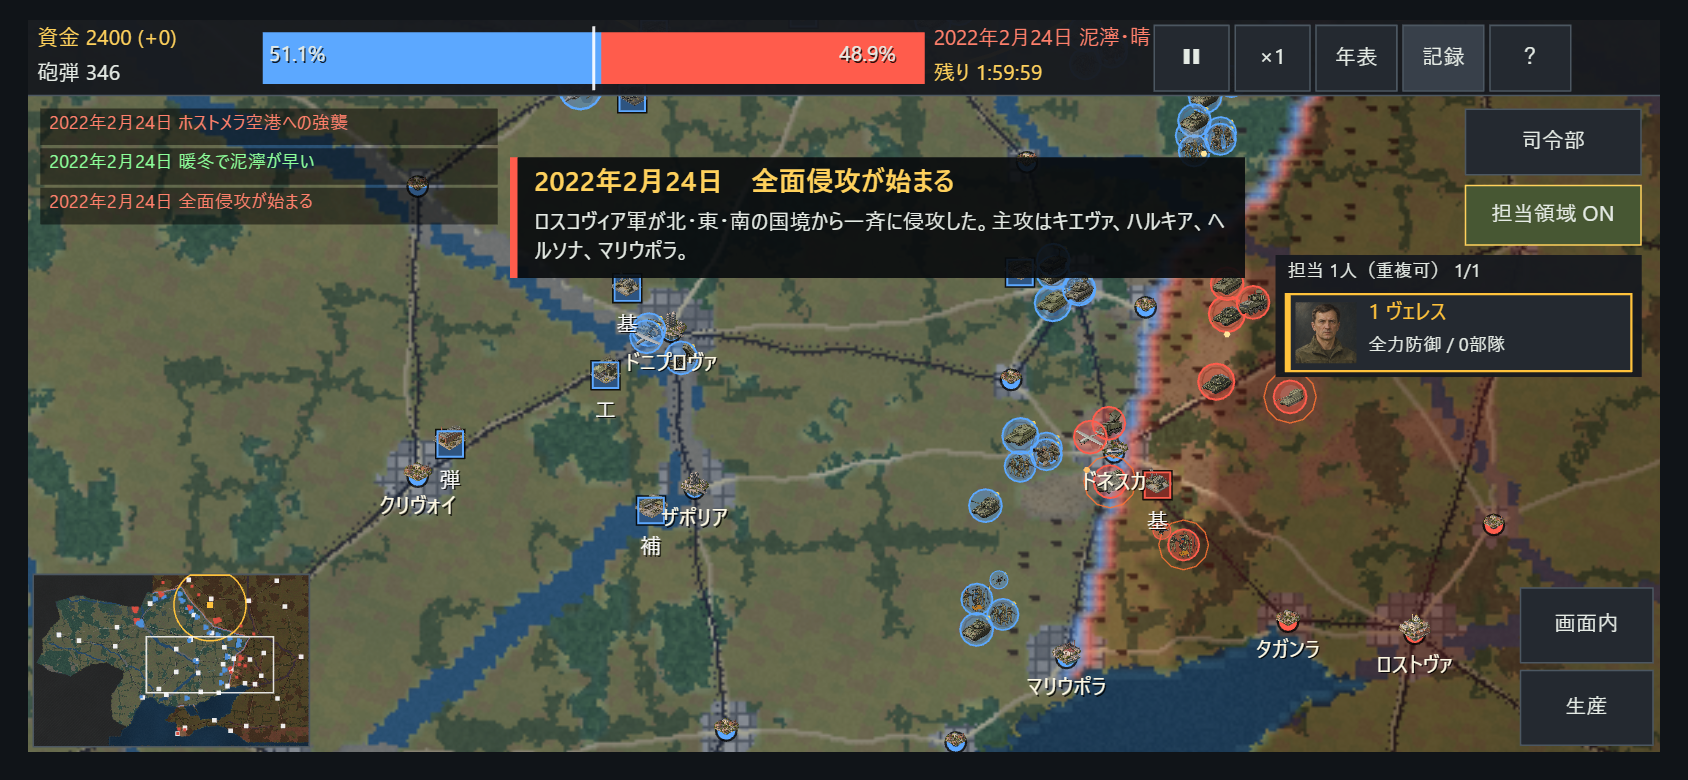
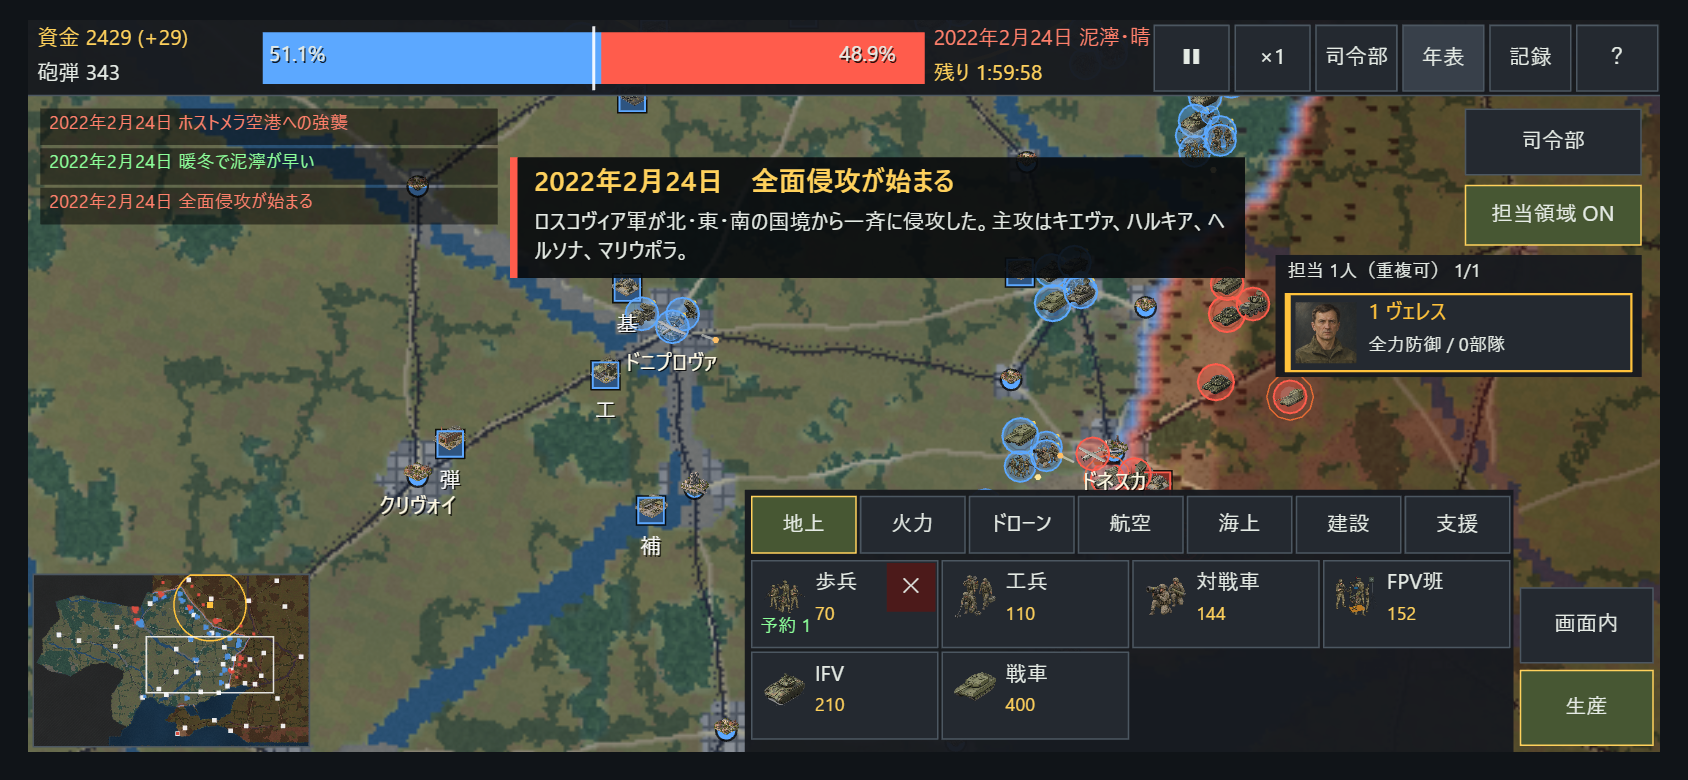
Add a permanent phone headquarters entry in the top bar
Open general orders directly from the mobile toolbar even while production is open or no general has units. Close production when selecting a command region and cover the entry point with touch and viewport regression tests.

diff --git a/crates/game/src/tests.rs b/crates/game/src/tests.rs
@@ -348,6 +348,29 @@ fn disabled_controls_do_not_execute_headquarters_actions() {
 }
 
 #[test]
+fn phone_top_bar_opens_headquarters_with_no_generals_and_while_producing_or_selecting() {
+    for dimensions in [(900.0,420.0),(1000.0,480.0)] {
+        for production in [false,true] {
+            for selection in [false,true] {
+                let (mut game,mut gfx)=game();game.compact=true;game.touch=true;gfx.dimensions=Some(dimensions);
+                game.show_prod=production;game.command_tab=1;game.command_detail_tab=2;
+                if selection {game.selected.push(game.world.as_ref().unwrap().units.iter().find(|u|u.side==0).unwrap().id);}
+                game.frame(&mut gfx,&[],0.0);
+                let (_,x,y,w,h)=gfx.texts.iter().find(|(s,_,y,_,_)|s=="司令部"&&*y<game.top_h()).expect("phone needs a permanent headquarters entry").clone();
+                assert!(x>=0.0&&x+w<=dimensions.0&&y+h<=game.top_h());
+                let (x,y)=(x+w/2.0,y+h/2.0);
+                game.frame(&mut gfx,&[Ev::Down(0,x,y),Ev::Up(0,x,y)],0.0);
+                assert!(game.show_command,"top-bar tap did not open headquarters");
+                assert_eq!(game.command_tab,0);assert_eq!(game.command_detail_tab,0);
+                game.frame(&mut gfx,&[],0.0);
+                assert!(gfx.texts.iter().any(|(s,_,_,_,_)|s=="積極攻勢"));
+                assert!(gfx.texts.iter().any(|(s,_,_,_,_)|s=="全力防御"));
+            }
+        }
+    }
+}
+
+#[test]
 fn touch_command_card_opens_orders_and_all_controls_work_at_minimum_phone_size() {
     use yydrone_core::command::*;
     fn tap(game:&mut Game,gfx:&mut NullGfx,label:&str) {

diff --git a/crates/game/src/mobile.rs b/crates/game/src/mobile.rs
@@ -264,13 +264,18 @@ impl Game {
             self.speed = if self.speed >= 8 { 1 } else { self.speed * 2 };
         }
         x += 53.0;
-        for (s, a) in [("年表", 0), ("記録", 1), ("？", 2)] {
-            let on = [self.show_chron, self.show_save, self.show_help][a];
+        for (s, a) in [("司令部", 3), ("年表", 0), ("記録", 1), ("？", 2)] {
+            let on = match a {0=>self.show_chron,1=>self.show_save,2=>self.show_help,_=>self.show_command};
             if self.button(g, tq, s, x, 3.0, 54.0, H - 6.0, on, true).is_some() {
                 match a {
                     0 => self.show_chron = !self.show_chron,
                     1 => self.show_save = !self.show_save,
-                    _ => self.show_help = !self.show_help,
+                    2 => self.show_help = !self.show_help,
+                    _ => {
+                        self.toggle_command();
+                        self.command_tab=0;
+                        self.command_detail_tab=0;
+                    }
                 }
             }
             x += 57.0;

diff --git a/crates/game/src/command_ui.rs b/crates/game/src/command_ui.rs
@@ -388,6 +388,7 @@ impl Game {
             {
                 self.show_command = false;
                 self.mode = Mode::CommandArea(gi as u8);
+                self.show_prod = false;
             }
             for (j, radius) in [28.0, 42.0, 64.0].into_iter().enumerate() {
                 if self

diff --git a/docs/command-system.md b/docs/command-system.md
@@ -4,7 +4,7 @@
 
 各陣営に **将軍9人・参謀1人**、両陣営合計20人を用意しています。将軍は3人ずつ3ページで切り替えます。
 
-スマホでは担当カードをタップすると、その将軍の「指示と予算」が直接開きます。司令部は画面いっぱいに表示し、攻勢・防御・予算・地域のボタンを大きくしています。見出しの「指示」で現在の方針を確認できます。
+スマホでは**上部バーの「司令部」**から、将軍の「指示と予算」を直接開けます。部隊が未委任の状態や、生産パネルを表示中でも使えます。担当カードのタップでも、その将軍の指示画面が開きます。司令部は画面いっぱいに表示し、攻勢・防御・予算・地域のボタンを大きくしています。見出しの「指示」で現在の方針を確認できます。
 
 ## 将軍への委任
 
@@ -45,7 +45,7 @@
 
 希望戦地のプレビューは破線と「希望」の表示で区別します。「提案へ戻る」から承認・見送りへ戻れます。
 
-「地図で中心を指定」の間は担当カードを隠します。カードのあった場所を含め、地図へのタップで中心を指定できます。指定後に司令部へ戻ります。
+「地図で中心を指定」の間は担当カードを隠し、生産パネルも閉じます。カードのあった場所を含め、地図へのタップで中心を指定できます。指定後に司令部へ戻ります。
 
 ## 指示
 
